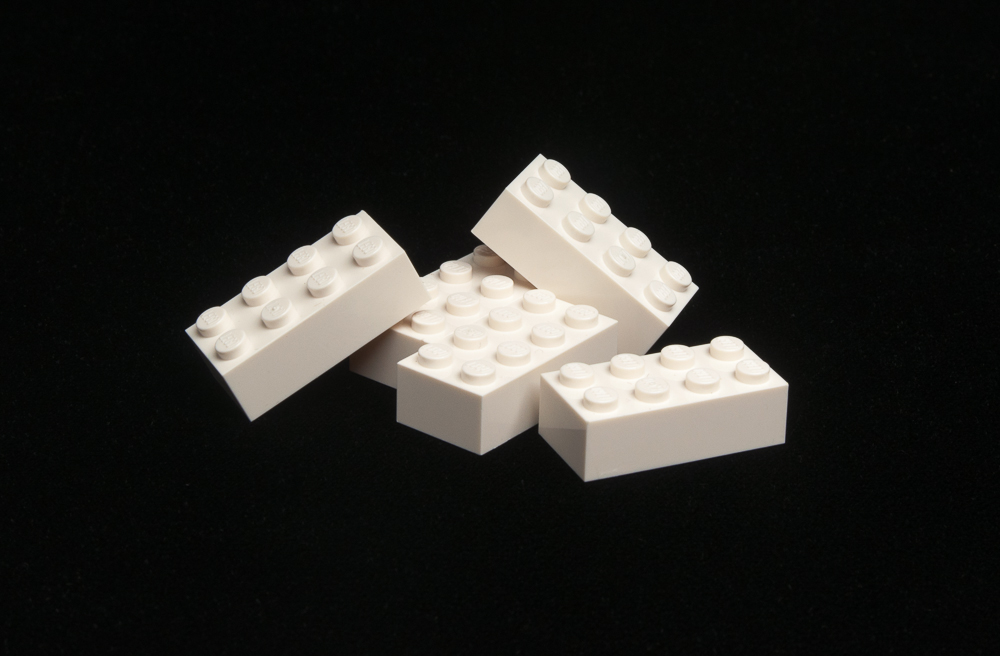
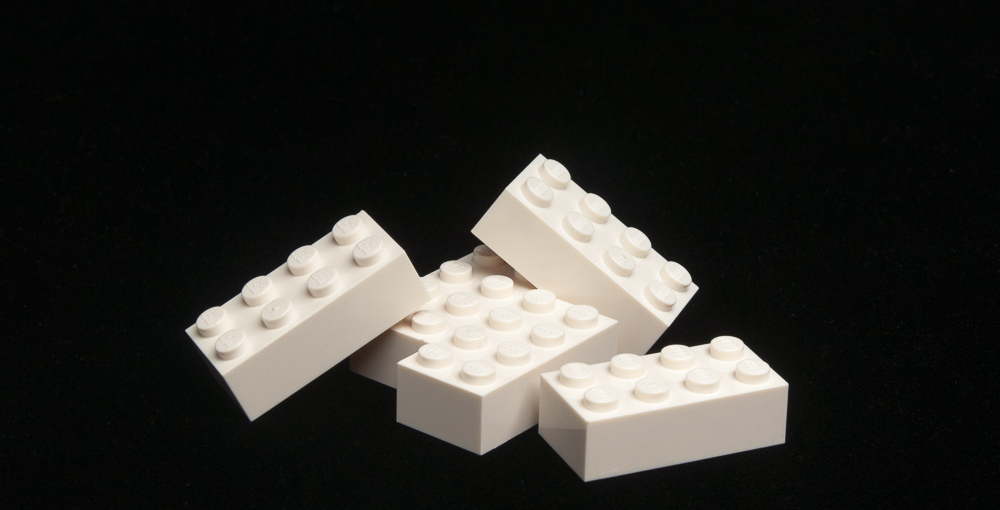
some crop

Changed region(s): [[0.186, 0.2353, 0.806, 0.9412]]

diff --git a/slides/slides.html b/slides/slides.html
@@ -236,7 +236,7 @@ d	<img style="position: fixed; left: 0px; top: 0px; width:100%" src="resources/l
 <hr><!---------------------------------------------------------------------------------------------->
 <div>
 	<h2 class="text_centered">defaults</h2>
-	<img style="display:block; margin-left: auto; margin-right: auto;  width:85%" src="resources/lego.pile-1.jpg">
+	<img style="display:block; margin-left: auto; margin-right: auto;  width:75%" src="resources/lego.pile-1.jpg">
 </div>
 <hr><!---------------------------------------------------------------------------------------------->
 <div>

diff --git a/css/themes/basic.css b/css/themes/basic.css
@@ -81,7 +81,7 @@ pre code tt span {
 	width: 100%;
 	height: 100%;
 	min-width: 40em;
-	min-height: 899px;
+	min-height: 1599px;
 	padding: 0;
 	margin: 0;
 }
